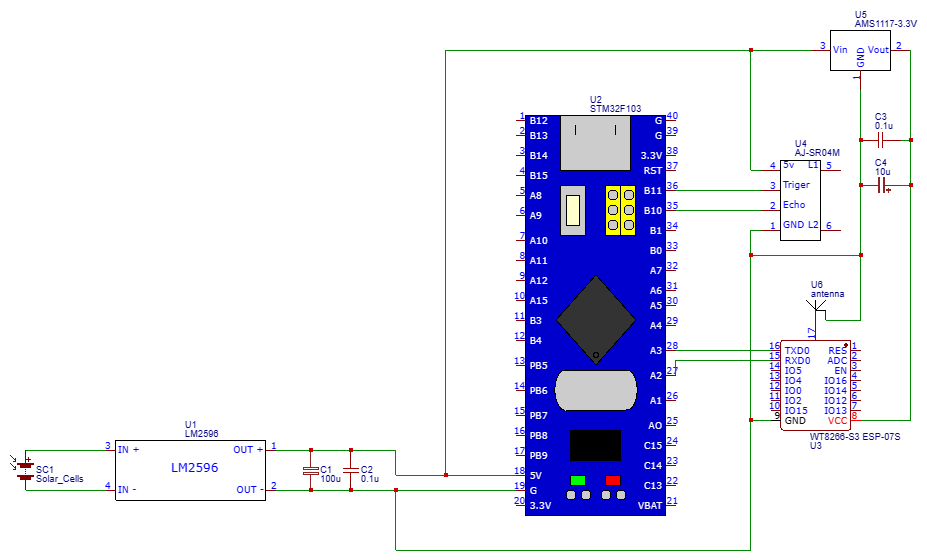
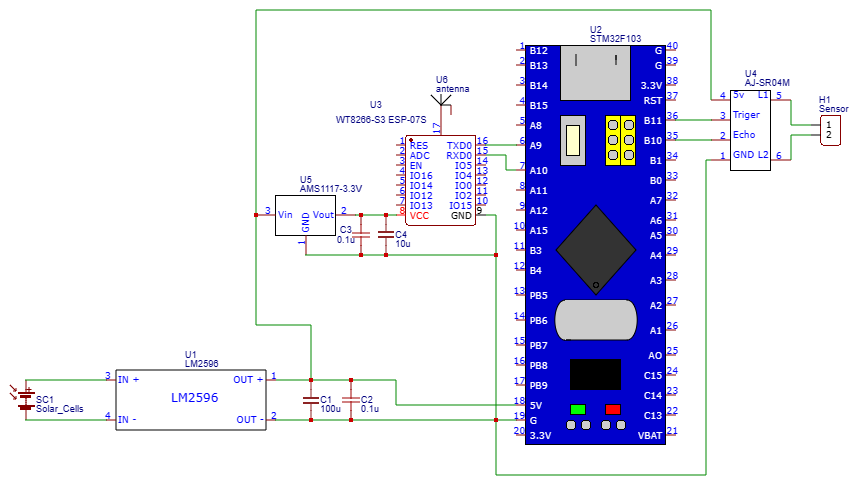
Moving WiFi shiled to USART1

diff --git a/include/controlWiFi.h b/include/controlWiFi.h
@@ -1,7 +1,7 @@
 #include <WiFiEspAT.h>
 
 //Definition for Wi-Fi ESP_AT module
-#define EspSerial       Serial2
+#define EspSerial       Serial1
 #define _WIFI_LOGLEVEL_             1
 
 void printWifiStatus();

diff --git a/src/controlWiFi.cpp b/src/controlWiFi.cpp
@@ -3,7 +3,7 @@
 int status = WL_IDLE_STATUS;     // the Wifi radio's status
 
 //define UART2 port
-HardwareSerial Serial2(PA3, PA2);
+HardwareSerial Serial1(PA10, PA9);
 
 void printWifiStatus()
 {
